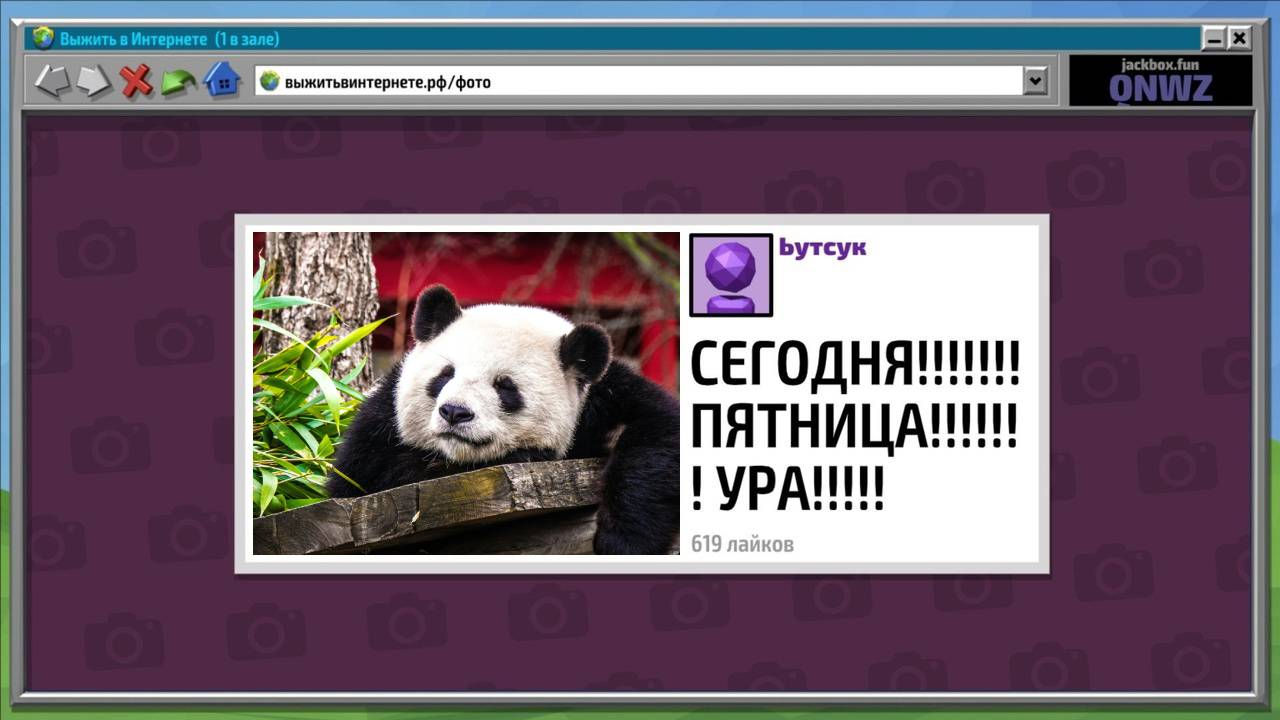
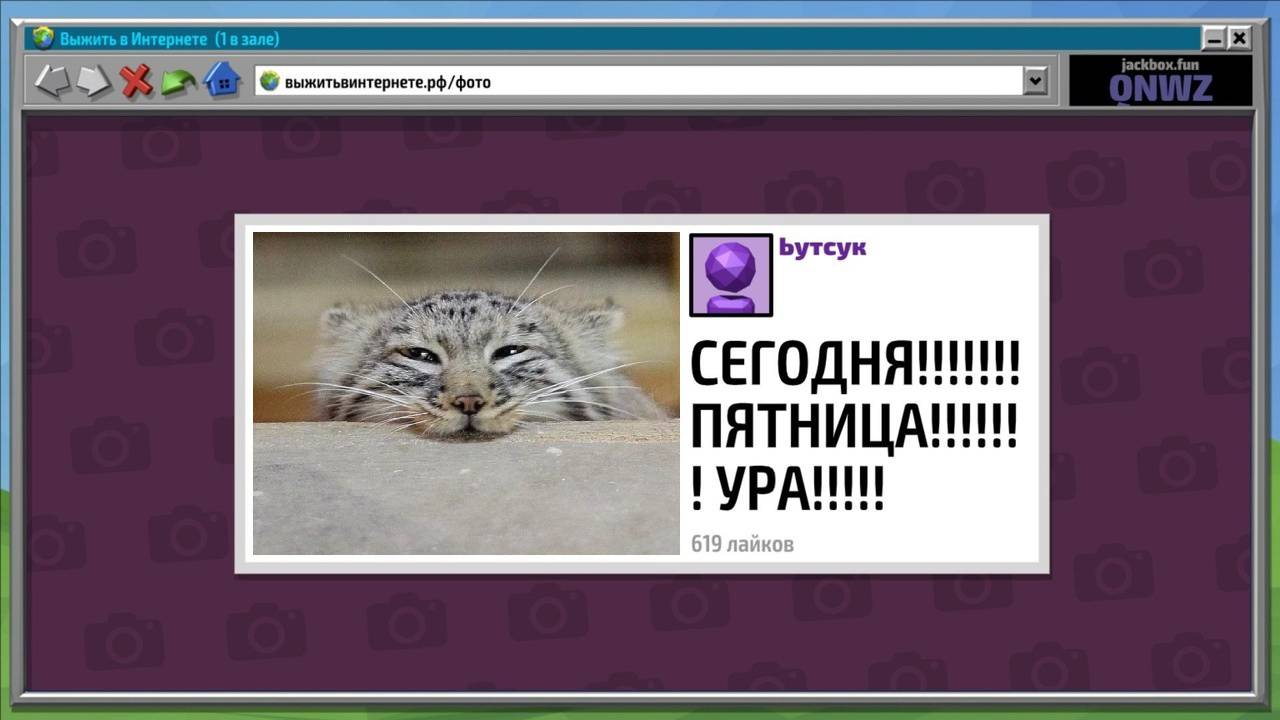
new friday

Changed region(s): [[0.1875, 0.3056, 0.5312, 0.7944]]

diff --git a/VKMain.py b/VKMain.py
@@ -87,4 +87,4 @@ server1 = Server(os.getenv('VK_TOKEN'), 216246042, "server1")
 
 # Запланировать пост на ближайшую пятницу
 
-server1.schedule_post_for_friday(" ", [f"457239023%2F7e9e639e2d0a98f606", f"457239146%2Fda0b72110b2bc850c3"], posts_amount=posts_amount)
+server1.schedule_post_for_friday(" ", [f"457239163%2Fda1ae0c50f27957333", f"457239146%2Fda0b72110b2bc850c3"], posts_amount=posts_amount)
